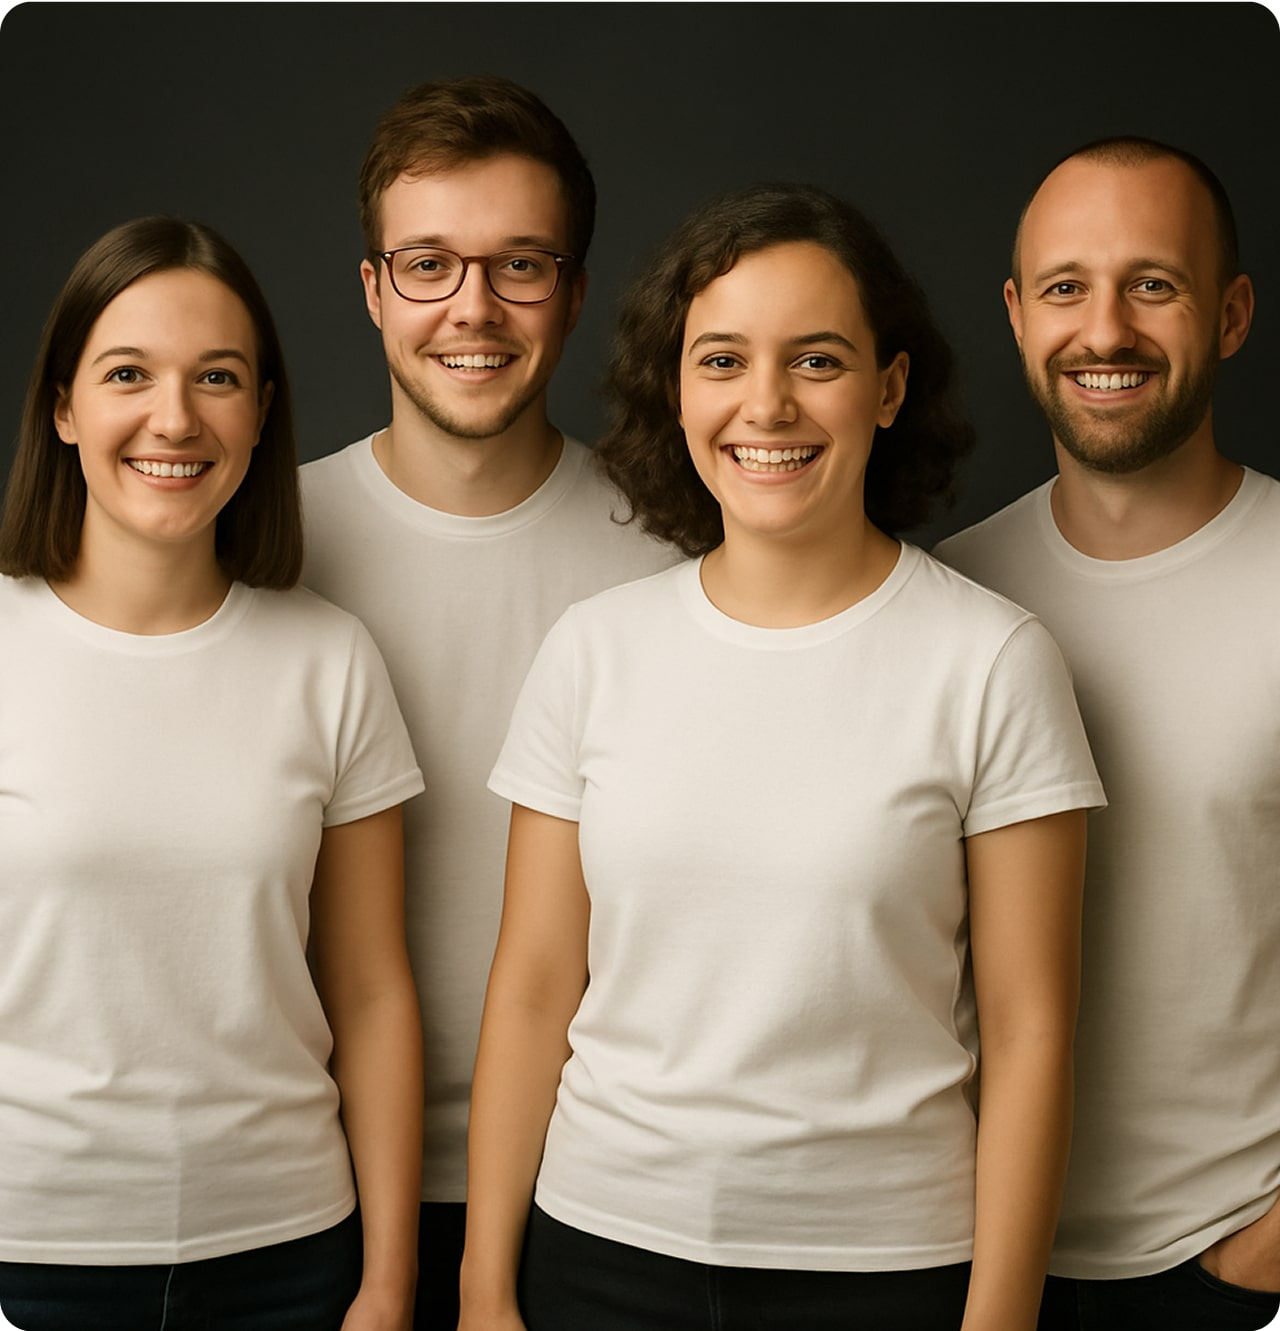
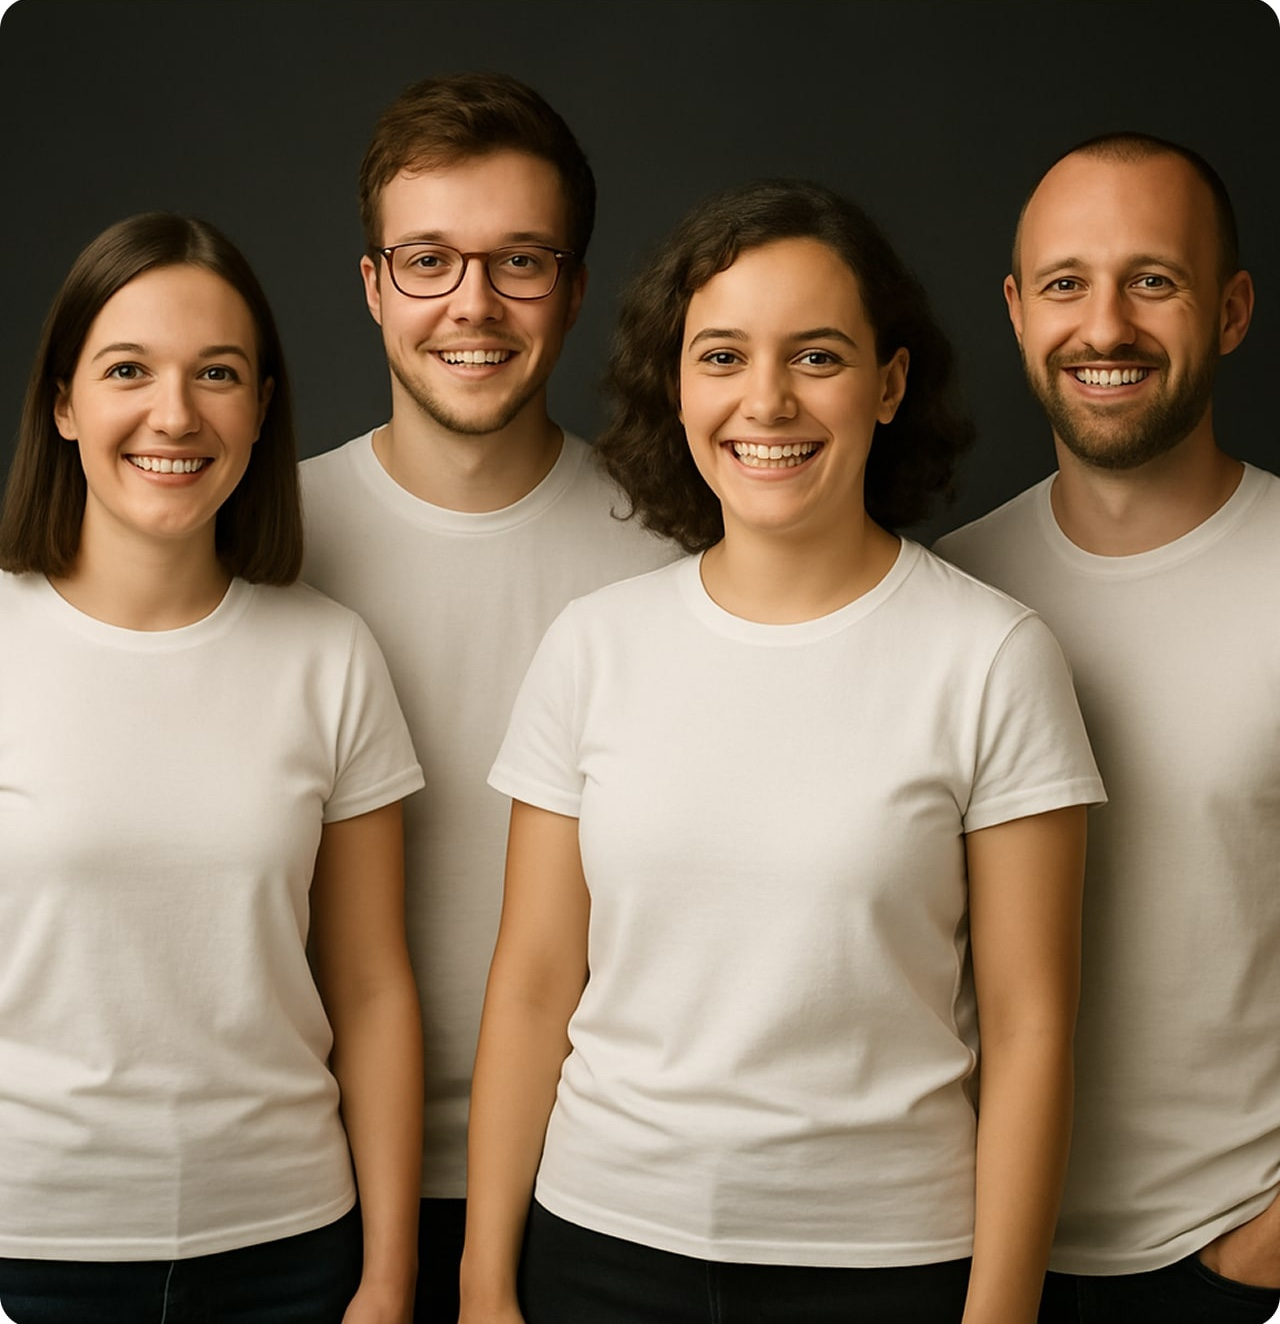
Update  pictures

diff --git a/src/partials/aboutUs.html b/src/partials/aboutUs.html
@@ -4,27 +4,27 @@
       <source
         media="(min-width:1440px)"
         srcset="
-          ../img/aboutUs/team-desk.jpg    1x,
-          ../img/aboutUs/team@2x-desk.jpg 2x
+          ./img/aboutUs/team-desk.jpg    1x,
+          ./img/aboutUs/team@2x-desk.jpg 2x
         " />
       <source
         media="(min-width:768px)"
         srcset="
-          ../img/aboutUs/team-tab.jpg    1x,
-          ../img/aboutUS/team@2x-tab.jpg 2x
+          ./img/aboutUs/team-tab.jpg    1x,
+          ./img/aboutUS/team@2x-tab.jpg 2x
         " />
       <source
         media="(max-width:767px)"
         srcset="
-          ../img/aboutUs/teamImage-mob.jpg    1x,
-          ../img/aboutUs/teamImage@2x-mob.jpg 2x
+          ./img/aboutUs/teamImage-mob.jpg    1x,
+          ./img/aboutUs/teamImage@2x-mob.jpg 2x
         " />
-      <img class="img-team" src="../img/aboutUs/team-desk.jpg" alt="team"
+      <img class="img-team" src="./img/aboutUs/team-desk.jpg" alt="team"
     /></picture>
 
     <div class="text-content">
       <img
-        src="../img/aboutUs/logo-icon.svg"
+        src="./img/aboutUs/logo-icon.svg"
         alt="ArtistsHub Logo"
         width="64"
         height="64"

diff --git a/src/css/aboutUs.css b/src/css/aboutUs.css
@@ -4,7 +4,8 @@
 
 .img-team {
   width: 100%;
-  border-radius: 16px;
+  border: 1px solid #000;
+  border-radius: 20px;
   margin-bottom: 32px;
   display: block;
 }
